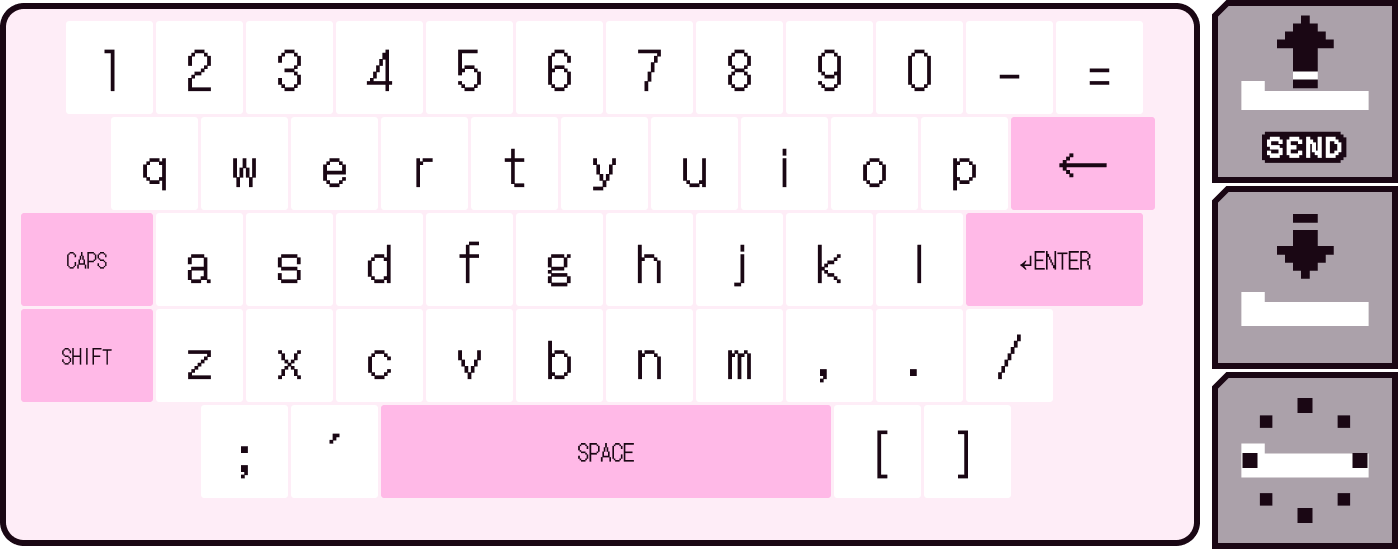
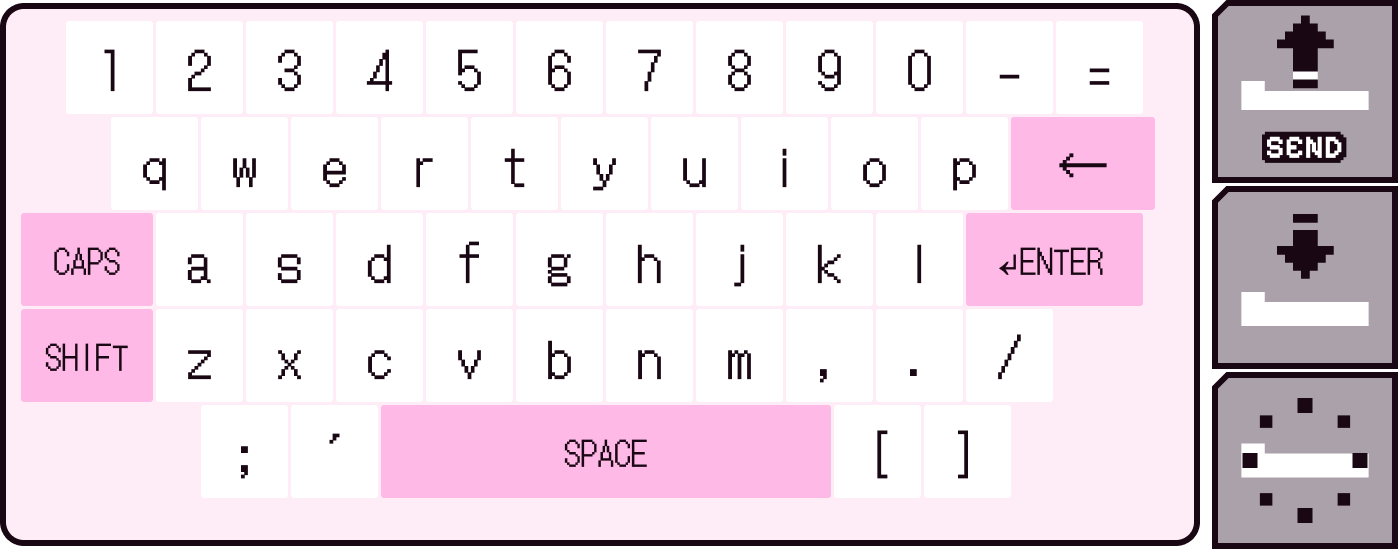
Ink outline hearts that fill pink, smaller PictoChat close, larger special key labels

diff --git a/index.html b/index.html
@@ -9,7 +9,7 @@
 <link rel="preconnect" href="https://fonts.gstatic.com" crossorigin>
 <link href="https://fonts.googleapis.com/css2?family=DotGothic16&family=Pixelify+Sans:wght@500;600&family=Roboto+Condensed:ital,wght@1,800&family=Arimo:ital,wght@1,700&display=swap" rel="stylesheet">
 <link rel="preload" as="image" href="./assets/v2/gba.png">
-<link rel="stylesheet" href="./site.css?v=20260922223437">
+<link rel="stylesheet" href="./site.css?v=20260922223621">
 </head>
 <body class="booting">
 
@@ -257,6 +257,6 @@
 
 </main>
 
-<script src="./site.js?v=20260922223437"></script>
+<script src="./site.js?v=20260922223621"></script>
 </body>
 </html>

diff --git a/site.css b/site.css
@@ -525,3 +525,6 @@ button.box.close:hover, .xbox:hover, .a-close:hover { filter: brightness(.95) sa
   #guestbook .memo-rate .val, #guestbook .memo-rate input.val { font-size: 14px; padding: 0 12px; }
   #guestbook .kb-wrap { width: 420px; }
 }
+/* smaller PictoChat close buttons */
+.xbox, #guestbook .xbox, #about .xbox { width: 20px; height: 22px; }
+@media (max-width: 720px) { .xbox, #guestbook .xbox, #about .xbox { width: 14px; height: 15px; } }
